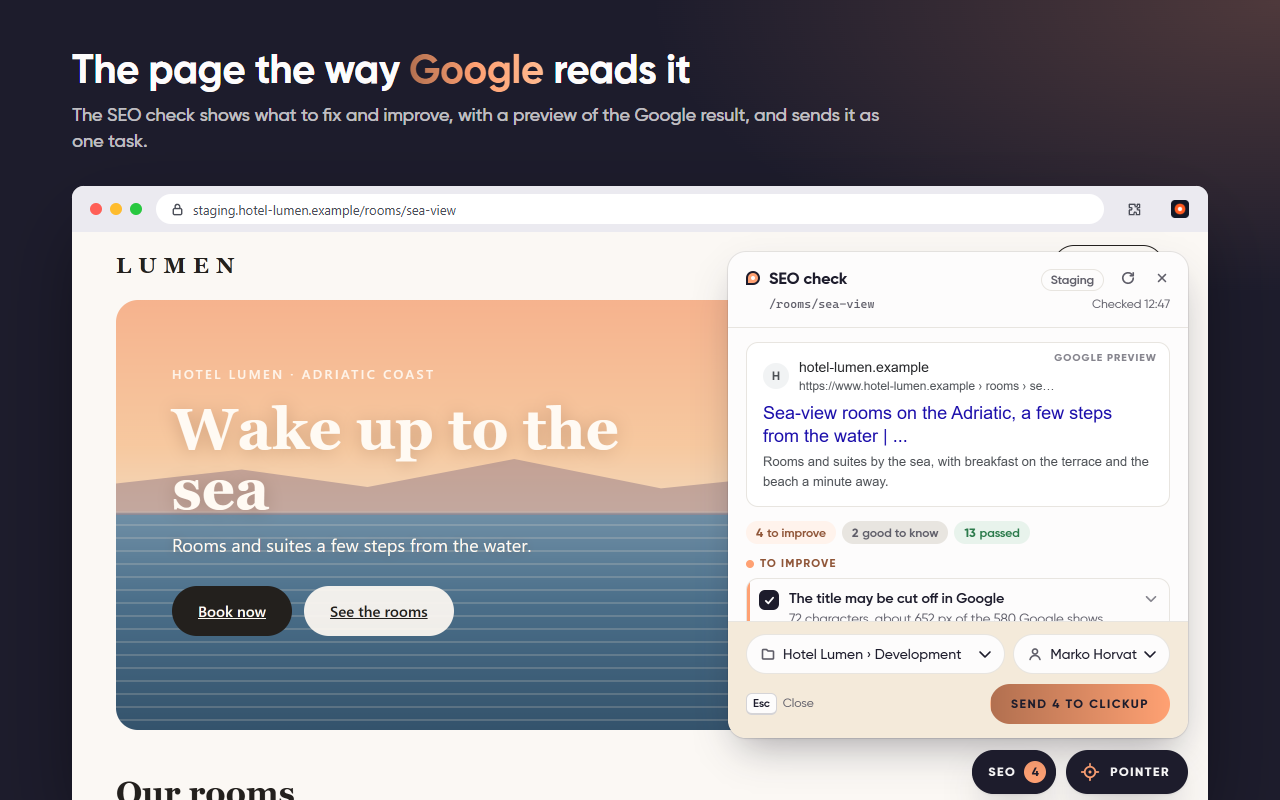
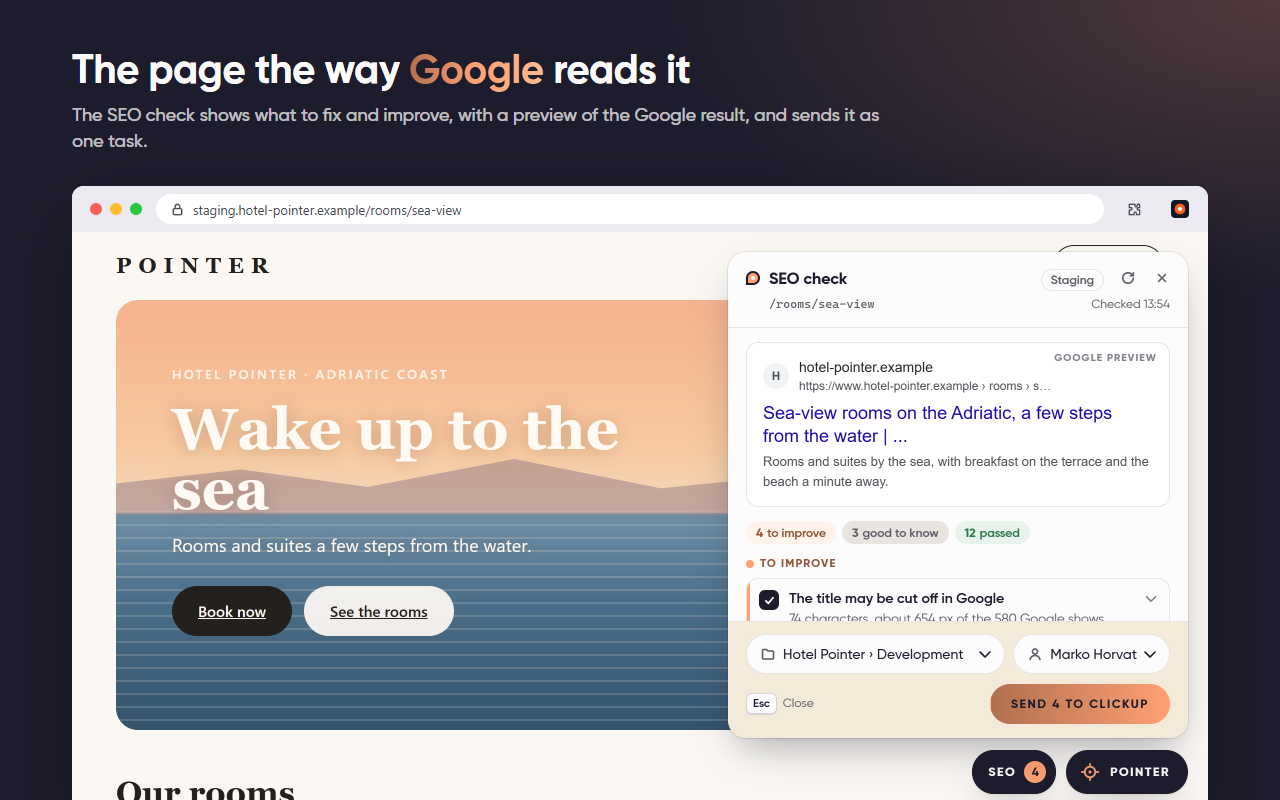
🚧add example page

diff --git a/demo/index.html b/demo/index.html
@@ -1,14 +1,18 @@
 <!doctype html>
-<!-- A made-up hotel's staging site for the store screenshots (render.mjs). Its sections are wrapped
-     the way bid's CMS blocks are (a hidden "[Name - id]" label first), so Pointer names them. -->
+<!-- A made-up hotel's staging site: the demo page store reviewers try Pointer on
+     (https://bidgrupa.github.io/bid-pointer/, published by .github/workflows/demo-page.yml), and the
+     page in the store screenshots (store/chrome/src/render.mjs). Its sections are wrapped the way
+     bid's CMS blocks are (a hidden "[Name - id]" label first), so Pointer names them. -->
 <html lang="en">
   <head>
     <meta charset="utf-8" />
     <meta name="viewport" content="width=device-width, initial-scale=1" />
-    <title>Sea-view rooms on the Adriatic, a few steps from the water | Hotel Lumen</title>
+    <!-- a staging site keeps out of search engines, and Pointer's SEO check expects that -->
+    <meta name="robots" content="noindex, nofollow" />
+    <title>Sea-view rooms on the Adriatic, a few steps from the water | Hotel Pointer</title>
     <meta name="description" content="Rooms and suites by the sea, with breakfast on the terrace and the beach a minute away." />
-    <link rel="canonical" href="https://www.hotel-lumen.example/rooms/sea-view" />
-    <meta property="og:title" content="Sea-view rooms at Hotel Lumen" />
+    <link rel="canonical" href="https://www.hotel-pointer.example/rooms/sea-view" />
+    <meta property="og:title" content="Sea-view rooms at Hotel Pointer" />
     <style>
       * {
         box-sizing: border-box;
@@ -163,13 +167,16 @@
         color: #d9cfc4;
         font-size: 14px;
       }
+      footer a {
+        color: #ffba90;
+      }
     </style>
   </head>
   <body>
     <div class="relative">
       <div class="hidden"><span>[SiteHeader - 1001]</span></div>
       <header>
-        <span class="logo">LUMEN</span>
+        <span class="logo">POINTER</span>
         <nav><span>Rooms</span><span>Dining</span><span>Spa</span><span>Offers</span></nav>
         <span class="book-outline">Book a stay</span>
       </header>
@@ -180,7 +187,7 @@
       <section class="hero">
         <div class="hills"></div>
         <div class="hero-text">
-          <div class="kicker">Hotel Lumen · Adriatic coast</div>
+          <div class="kicker">Hotel Pointer · Adriatic coast</div>
           <h1>Wake up to the sea</h1>
           <p>Rooms and suites a few steps from the water.</p>
           <div class="buttons">
@@ -213,6 +220,9 @@
       </section>
     </div>
 
-    <footer>Hotel Lumen · Obala 12 · +385 00 000 000</footer>
+    <div class="relative">
+      <div class="hidden"><span>[SiteFooter - 1099]</span></div>
+      <footer>Hotel Pointer is made up: this page is for trying <a href="https://github.com/bidgrupa/bid-pointer">bid Pointer</a>.</footer>
+    </div>
   </body>
 </html>

diff --git a/store/chrome/src/frame.html b/store/chrome/src/frame.html
@@ -166,22 +166,22 @@
         1: {
           title: "Click what's <em>wrong</em>. Say why.",
           text: 'Point at anything on a page and write a note. Pointer files it in ClickUp with a marked-up screenshot, the page and the browser.',
-          url: 'staging.hotel-lumen.example/rooms/sea-view',
+          url: 'staging.hotel-pointer.example/rooms/sea-view',
         },
         2: {
           title: 'Several notes, <em>one</em> task',
           text: 'Collect notes on a page as numbered pins, then publish them together as one ClickUp task.',
-          url: 'staging.hotel-lumen.example/rooms/sea-view',
+          url: 'staging.hotel-pointer.example/rooms/sea-view',
         },
         3: {
           title: 'A clear task, <em>before</em> it goes out',
           text: 'Optional AI rewriting turns a quick note into a short title and clear steps. Check it, change it, then send it to ClickUp.',
-          url: 'staging.hotel-lumen.example/rooms/sea-view',
+          url: 'staging.hotel-pointer.example/rooms/sea-view',
         },
         4: {
           title: 'The page the way <em>Google</em> reads it',
           text: 'The SEO check shows what to fix and improve, with a preview of the Google result, and sends it as one task.',
-          url: 'staging.hotel-lumen.example/rooms/sea-view',
+          url: 'staging.hotel-pointer.example/rooms/sea-view',
         },
         5: {
           title: 'Set up in a <em>minute</em>',

diff --git a/docs/public-release.md b/docs/public-release.md
@@ -16,7 +16,14 @@ including a public repository, so the GitHub link to PRIVACY.md is the privacy p
 ## Before the first store submission
 
 - **Public repository.** The privacy policy is [PRIVACY.md](../PRIVACY.md) at `https://github.com/bidgrupa/bid-pointer/blob/main/PRIVACY.md`, which opens for reviewers only once the repository is public: see [Making the repository public](#making-the-repository-public). Every build also renders it into `privacy.html`, which Pointer links from its settings. The release workflow refuses to submit while PRIVACY.md has a TODO.
-- **Review test account.** Reviewers need a ClickUp workspace. Make a free ClickUp account and workspace just for this ("Pointer Review"), with one space, "Review", holding a folderless list "Website". Generate its API token (Settings › Apps). The login and token go in the store forms and in the `AMO_TEST_ACCOUNT` secret, never in the repository.
+- **Review test account.** Reviewers can only get past Pointer's setup with a ClickUp token, so they get one of their own:
+  1. Sign up at clickup.com with a BID address that isn't a person's (an alias such as `pointer-review@bid.agency`), on the free plan. Its API is enough: 100 requests a minute.
+  2. Name the workspace "Pointer Review". Give it one space, "Review", holding one folderless list, "Hotel Pointer" (the demo site's hotel). Delete anything ClickUp adds on its own, so the space has just that list.
+  3. Settings › Apps › API Token › Generate. Keep the login and the token in BID's password manager.
+  4. The login and token go in the Chrome dashboard's Test instructions and in the `AMO_TEST_ACCOUNT` secret, never in the repository.
+
+  Not a guest in BID's own workspace: the token goes to Google's and Mozilla's reviewers (and to Mozilla again with every version), Pointer's person picker would show them BID's members, and their test tasks would land among real ones. A separate workspace has nothing to leak.
+- **Demo page.** Reviewers try Pointer on [demo/index.html](../demo/index.html), a made-up hotel's staging site with four CMS blocks, published at <https://bidgrupa.github.io/bid-pointer/> by the **Demo page** workflow. Turn it on once: **Settings → Pages → Build and deployment → Source: GitHub Actions**, then run **Demo page** from the Actions tab (later it redeploys whenever `demo/` changes) and check that the address opens. The reviewers' instructions give them a setup code that adds that site to Pointer's sites, so Pointer starts there by itself; the code holds no token or key.
 - **Listing text.** [CHROMEWEBSTORE.md](../CHROMEWEBSTORE.md) has the description, single purpose, permission justifications and data-use answers, ready to paste; [FIREFOXADDONS.md](../FIREFOXADDONS.md) the same for AMO.
 - **Graphics.** The store icon is built (`icons/store-128.png`). Five 1280×800 screenshots and the 440×280 promo tile are in `store/chrome/`; `pnpm screenshots` renders them again after a UI change.
 - **Licence.** Pointer is All Rights Reserved (`"license": "UNLICENSED"` in package.json, and [LICENSE](../LICENSE)) unless bid decides otherwise: the code is public to read, not to reuse. Nothing in it requires an open licence.

diff --git a/CHROMEWEBSTORE.md b/CHROMEWEBSTORE.md
@@ -116,13 +116,16 @@ Data use certification:
 **Additional instructions** (paste as plain text, with the token filled in):
 
 ```
-Pointer works with a ClickUp workspace; the account above is a test one made for review. Its API token, to paste into Pointer: TODO pk_…
+Pointer works with a ClickUp workspace; the account above is a test one made for review, with nothing real in it. Its API token, to paste into Pointer: ⬜ pk_…
 
 1. After installing, Pointer's settings page opens. Read what Pointer sends and click "I agree".
-2. Paste the API token into step 3. Pointer connects and picks the workspace's only space, "Review", by itself.
-3. Open any website, for example https://example.com, and click the bid Pointer toolbar button. A "Pointer" button appears in the bottom-right corner.
-4. Click the page's heading, type a note such as "This heading should be bigger", choose the project "Website", and press Enter. A task with a screenshot appears in ClickUp (log in with the account above), in the Review space.
-5. Optional: the SEO button next to Pointer checks the page; tick a finding and press Send.
+2. Paste the test account's API token into step 3. Pointer connects and picks the test workspace's only space, "Review", by itself.
+3. Under "Setup code", paste this code and press "Use these settings". It adds the demo site to Pointer's sites (the code holds no token or key):
+   PTR1.eJyrVipTsjLUUSpXsopWSspMSS8qLUjUS88syShN0svMV4rVUcpXsiopKk2tBQAmiA4Z
+4. Open the demo site https://bidgrupa.github.io/bid-pointer/ (a made-up hotel). Pointer appears in the bottom-right corner by itself.
+5. Click "Pointer", then click something on the page, e.g. the "Book a stay" button. The note names the page's section (SiteHeader). Choose the project "Hotel Pointer", type a note and press Enter. A task with a marked-up screenshot appears in the test workspace (log in with the account above to see it).
+6. The "SEO" button next to Pointer checks the page; tick a finding and press Send.
+7. Optional: in the settings, "Enable Page Specific Task" collects several notes on a page as numbered pins, published together as one task.
 
 Z.ai rewriting is optional and off without a key. Pointer works fully without it.
 ```

diff --git a/README.md b/README.md
@@ -25,6 +25,7 @@ Releases follow webpify's setup (`github.com/bidgrupa/webpify`):
 | [CHROMEWEBSTORE.md](CHROMEWEBSTORE.md), [FIREFOXADDONS.md](FIREFOXADDONS.md) | Every store field, ready to paste, with the version history and review notes. |
 | [PRIVACY.md](PRIVACY.md) | The privacy policy; its GitHub link is the one the stores give. Every build also renders it into `privacy.html`, which Pointer links from its settings. |
 | [store/firefox/approval-notes.txt](store/firefox/approval-notes.txt) | What Mozilla's reviewers get with every version. |
+| [demo/index.html](demo/index.html) | A made-up hotel's staging site with four CMS blocks: the page reviewers try Pointer on, at https://bidgrupa.github.io/bid-pointer/ (the [Demo page workflow](.github/workflows/demo-page.yml)), and the one in the store screenshots. |
 
 ```
 pnpm release    # typecheck, unit tests, build, then release/: the Chrome zip (no `key`), the Firefox
